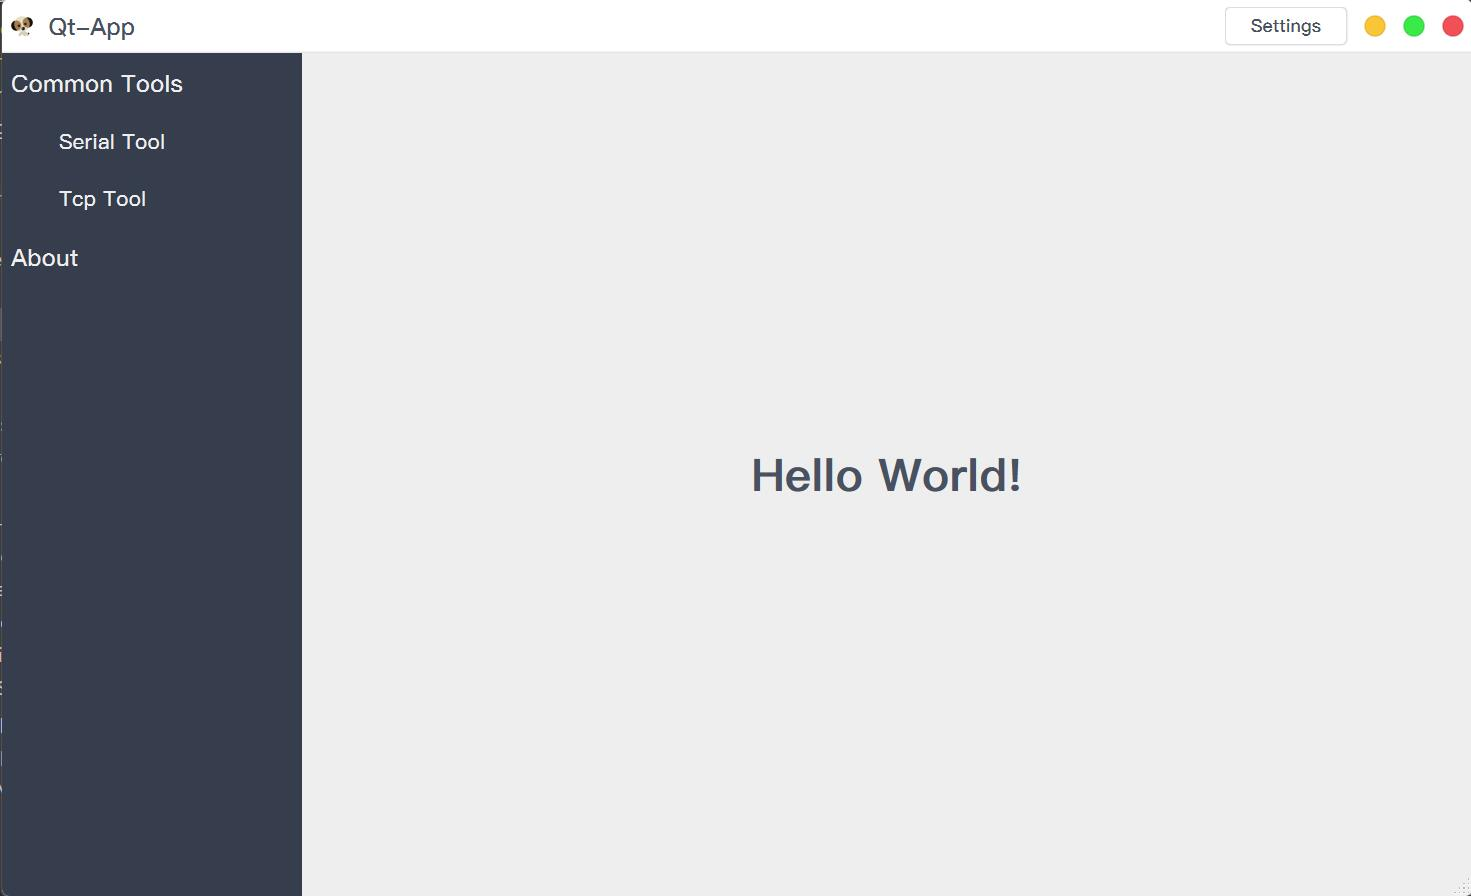
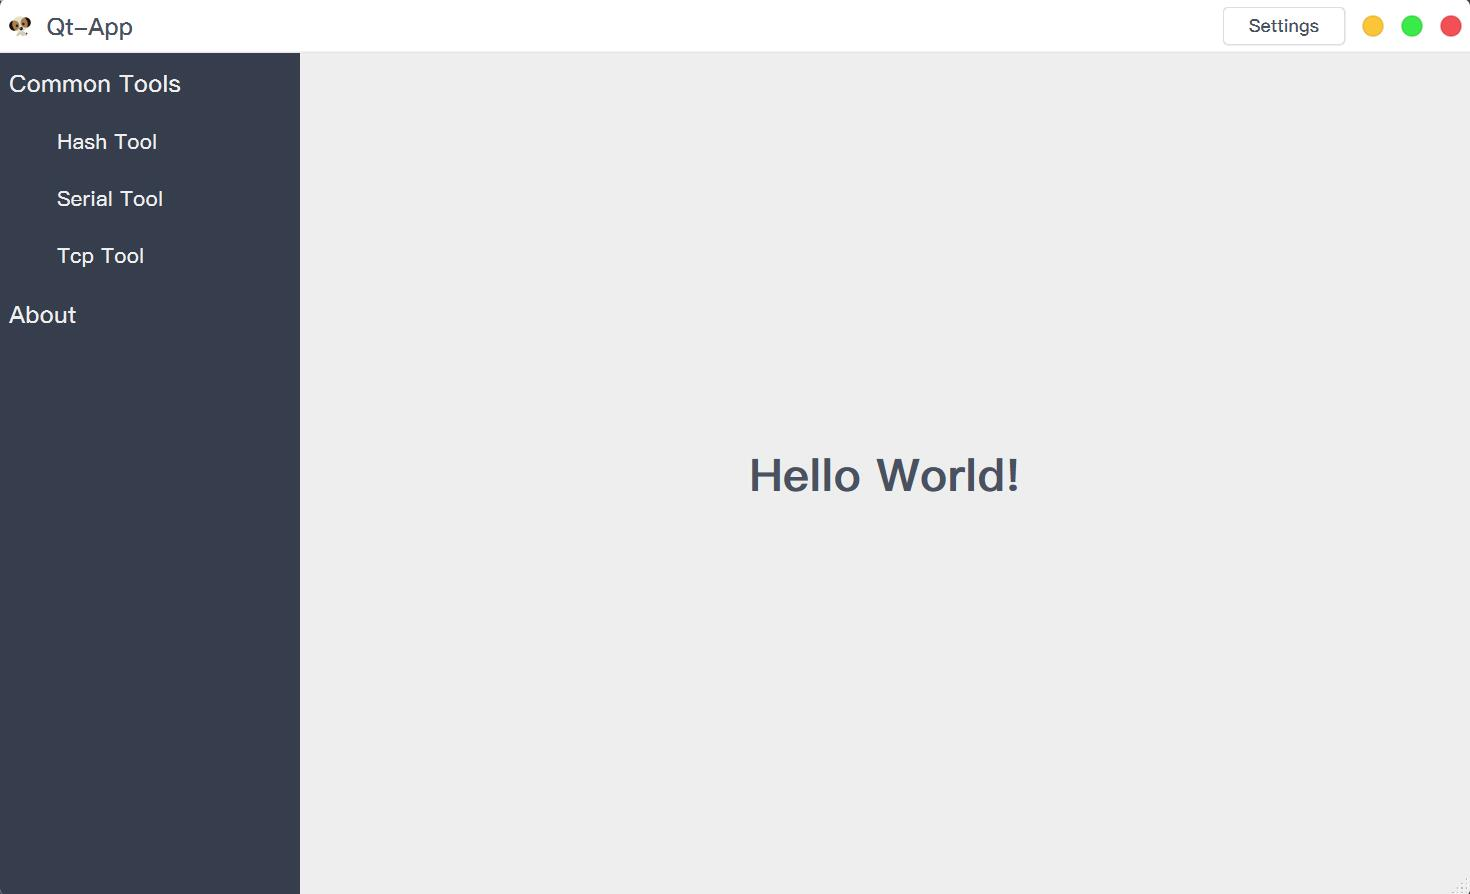
hash tool;

diff --git a/plugins/hashplugin/hashwidget.cc b/plugins/hashplugin/hashwidget.cc
@@ -1,0 +1,127 @@
+#include "hashwidget.hpp"
+#include "hashthread.hpp"
+
+#include <gui/messbox.h>
+
+#include <QtWidgets>
+
+namespace Plugin {
+
+class HashWidget::HashWidgetPrivate
+{
+public:
+    explicit HashWidgetPrivate(HashWidget *q)
+        : q_ptr(q)
+    {
+        hashComboBox = new QComboBox(q_ptr);
+        auto metaEnums = QMetaEnum::fromType<QCryptographicHash::Algorithm>();
+        for (int i = 0; i < metaEnums.keyCount(); ++i) {
+            auto value = metaEnums.value(i);
+            if (value == QCryptographicHash::NumAlgorithms) {
+                continue;
+            }
+            hashComboBox->addItem(metaEnums.key(i), value);
+        }
+
+        selectFileButton = new QPushButton(QObject::tr("Select File"), q_ptr);
+        selectFileButton->setToolTip(QObject::tr("Select file to calculate hash."));
+        selectFileButton->setObjectName("BlueButton");
+        calculateButton = new QPushButton(QObject::tr("Calculate"), q_ptr);
+        calculateButton->setToolTip(QObject::tr("Calculate hash."));
+        calculateButton->setObjectName("BlueButton");
+        inputEdit = new QTextEdit(q_ptr);
+        outputEdit = new QTextEdit(q_ptr);
+
+        hashThread = new HashThread(q_ptr);
+    }
+
+    void setupUI()
+    {
+        auto buttonLayout = new QVBoxLayout;
+        buttonLayout->addWidget(hashComboBox);
+        buttonLayout->addWidget(selectFileButton);
+        buttonLayout->addWidget(calculateButton);
+
+        auto leftLayout = new QVBoxLayout;
+        leftLayout->addWidget(new QLabel(QObject::tr("Input:"), q_ptr));
+        leftLayout->addWidget(inputEdit);
+        leftLayout->addWidget(new QLabel(QObject::tr("Output:"), q_ptr));
+        leftLayout->addWidget(outputEdit);
+
+        auto bottomLayout = new QHBoxLayout;
+        bottomLayout->addLayout(leftLayout);
+        bottomLayout->addLayout(buttonLayout);
+
+        auto descriptionLabel = new QLabel(
+            QObject::tr("If Input String is file path and file exists, calculate hash of file. "
+                        "Otherwise calculate hash of Input String."),
+            q_ptr);
+        descriptionLabel->setWordWrap(true);
+
+        auto layout = new QVBoxLayout(q_ptr);
+        layout->addWidget(descriptionLabel);
+        layout->addLayout(bottomLayout);
+    }
+
+    HashWidget *q_ptr;
+
+    QComboBox *hashComboBox;
+    QPushButton *selectFileButton;
+    QPushButton *calculateButton;
+    QTextEdit *inputEdit;
+    QTextEdit *outputEdit;
+
+    HashThread *hashThread;
+};
+
+HashWidget::HashWidget(QWidget *parent)
+    : QWidget{parent}
+    , d_ptr(new HashWidgetPrivate(this))
+{
+    d_ptr->setupUI();
+    buildConnect();
+}
+
+HashWidget::~HashWidget() = default;
+
+void HashWidget::onSelectFile()
+{
+    auto path = QStandardPaths::standardLocations(QStandardPaths::DocumentsLocation)
+                    .value(0, QDir::homePath());
+    auto filePath = QFileDialog::getOpenFileName(this, tr("Select File"), path);
+    d_ptr->inputEdit->setText(filePath);
+}
+
+void HashWidget::onCalculate()
+{
+    auto input = d_ptr->inputEdit->toPlainText();
+    if (input.isEmpty()) {
+        GUI::MessBox::Warning(this, tr("Input is empty!"), GUI::MessBox::CloseButton);
+        return;
+    }
+    auto hash = d_ptr->hashComboBox->currentData().toInt();
+    auto started = d_ptr->hashThread->startHash(input,
+                                                static_cast<QCryptographicHash::Algorithm>(hash));
+    if (!started) {
+        GUI::MessBox::Warning(this, tr("Hash thread is running!"), GUI::MessBox::CloseButton);
+        return;
+    }
+    d_ptr->calculateButton->setEnabled(false);
+    d_ptr->calculateButton->setText(tr("Calculating..."));
+}
+
+void HashWidget::onHashFinished(const QString &result)
+{
+    d_ptr->outputEdit->setText(result);
+    d_ptr->calculateButton->setEnabled(true);
+    d_ptr->calculateButton->setText(tr("Calculate"));
+}
+
+void HashWidget::buildConnect()
+{
+    connect(d_ptr->selectFileButton, &QPushButton::clicked, this, &HashWidget::onSelectFile);
+    connect(d_ptr->calculateButton, &QPushButton::clicked, this, &HashWidget::onCalculate);
+    connect(d_ptr->hashThread, &HashThread::hashFinished, this, &HashWidget::onHashFinished);
+}
+
+} // namespace Plugin

diff --git a/plugins/hashplugin/hashthread.cc b/plugins/hashplugin/hashthread.cc
@@ -1,0 +1,63 @@
+#include "hashthread.hpp"
+
+#include <QFile>
+
+namespace Plugin {
+
+class HashThread::HashThreadPrivate
+{
+public:
+    HashThreadPrivate(HashThread *q)
+        : q_ptr(q)
+    {}
+
+    HashThread *q_ptr;
+
+    QString input;
+    QCryptographicHash::Algorithm algorithm;
+};
+
+HashThread::HashThread(QObject *parent)
+    : QThread{parent}
+    , d_ptr{new HashThreadPrivate{this}}
+{}
+
+HashThread::~HashThread()
+{
+    stop();
+}
+
+bool HashThread::startHash(const QString &input, QCryptographicHash::Algorithm algorithm)
+{
+    d_ptr->input = input;
+    d_ptr->algorithm = algorithm;
+    if (isRunning()) {
+        return false;
+    }
+    start();
+    return true;
+}
+
+void HashThread::stop()
+{
+    if (isRunning()) {
+        quit();
+        wait();
+    }
+}
+
+void HashThread::run()
+{
+    QCryptographicHash hashObj{d_ptr->algorithm};
+    QFile file{d_ptr->input};
+    if (file.exists() && file.open(QIODevice::ReadOnly)) {
+        hashObj.addData(&file);
+        file.close();
+    } else {
+        hashObj.addData(d_ptr->input.toUtf8());
+    }
+    auto result = hashObj.result();
+    emit hashFinished(result.toHex());
+}
+
+} // namespace Plugin

diff --git a/plugins/hashplugin/hashplugin.hpp b/plugins/hashplugin/hashplugin.hpp
@@ -1,0 +1,29 @@
+#ifndef HASHPLUGIN_HPP
+#define HASHPLUGIN_HPP
+
+#include <core/corewidget.hpp>
+#include <extensionsystem/iplugin.h>
+
+namespace Plugin {
+
+class HashPluginWidget : public Core::CoreWidget
+{
+    Q_OBJECT
+public:
+    explicit HashPluginWidget(QObject *parent = nullptr);
+};
+
+class HashPlugin : public ExtensionSystem::IPlugin
+{
+    Q_OBJECT
+    Q_PLUGIN_METADATA(IID "Youth.Qt.plugin" FILE "hashplugin.json")
+public:
+    HashPlugin() = default;
+
+    bool initialize(const QStringList &arguments, QString *errorString) override;
+    void extensionsInitialized() override {}
+};
+
+} // namespace Plugin
+
+#endif // HASHPLUGIN_HPP

diff --git a/plugins/hashplugin/hashthread.hpp b/plugins/hashplugin/hashthread.hpp
@@ -1,0 +1,32 @@
+#ifndef HASHTHREAD_HPP
+#define HASHTHREAD_HPP
+
+#include <QCryptographicHash>
+#include <QThread>
+
+namespace Plugin {
+
+class HashThread : public QThread
+{
+    Q_OBJECT
+public:
+    explicit HashThread(QObject *parent = nullptr);
+    ~HashThread();
+
+    bool startHash(const QString &input, QCryptographicHash::Algorithm algorithm);
+    void stop();
+
+signals:
+    void hashFinished(const QString &hash);
+
+protected:
+    void run();
+
+private:
+    class HashThreadPrivate;
+    QScopedPointer<HashThreadPrivate> d_ptr;
+};
+
+} // namespace Plugin
+
+#endif // HASHTHREAD_HPP

diff --git a/plugins/hashplugin/hashwidget.hpp b/plugins/hashplugin/hashwidget.hpp
@@ -1,0 +1,29 @@
+#ifndef HASHWIDGET_HPP
+#define HASHWIDGET_HPP
+
+#include <QWidget>
+
+namespace Plugin {
+
+class HashWidget : public QWidget
+{
+    Q_OBJECT
+public:
+    explicit HashWidget(QWidget *parent = nullptr);
+    ~HashWidget();
+
+private slots:
+    void onSelectFile();
+    void onCalculate();
+    void onHashFinished(const QString &result);
+
+private:
+    void buildConnect();
+
+    class HashWidgetPrivate;
+    QScopedPointer<HashWidgetPrivate> d_ptr;
+};
+
+} // namespace Plugin
+
+#endif // HASHWIDGET_HPP

diff --git a/plugins/hashplugin/hashplugin.cc b/plugins/hashplugin/hashplugin.cc
@@ -1,0 +1,20 @@
+#include "hashplugin.hpp"
+#include "hashwidget.hpp"
+
+#include <QPushButton>
+
+namespace Plugin {
+
+HashPluginWidget::HashPluginWidget(QObject *parent)
+{
+    setWidget(new HashWidget);
+    setButton(new QPushButton(tr("Hash Tool")), Core::CoreWidget::Tool);
+}
+
+bool HashPlugin::initialize(const QStringList &arguments, QString *errorString)
+{
+    addObject(new HashPluginWidget(this));
+    return true;
+}
+
+} // namespace Plugin

diff --git a/README.md b/README.md
@@ -36,8 +36,9 @@
 7. [gui](gui)：封装的界面组件；
 8. [plugins](plugins)：插件；
    1. [coreplugin](plugins/coreplugin)：核心插件，主界面、菜单、工具栏、状态栏、设置、插件管理器等；
-   2. [serialplugin](plugins/serialplugin)：串口插件；
-   3. [tcpplugin](plugins/tcpplugin)：TCP插件；
+   2. [hashplugin](plugins/hashplugin)：哈希插件，QT提供的哈希算法；
+   3. [serialplugin](plugins/serialplugin)：串口插件；
+   4. [tcpplugin](plugins/tcpplugin)：TCP插件；
 9. [resource](resource)：图片和QSS文件；
 10. [utils](utils)：工具函数封装；
 
